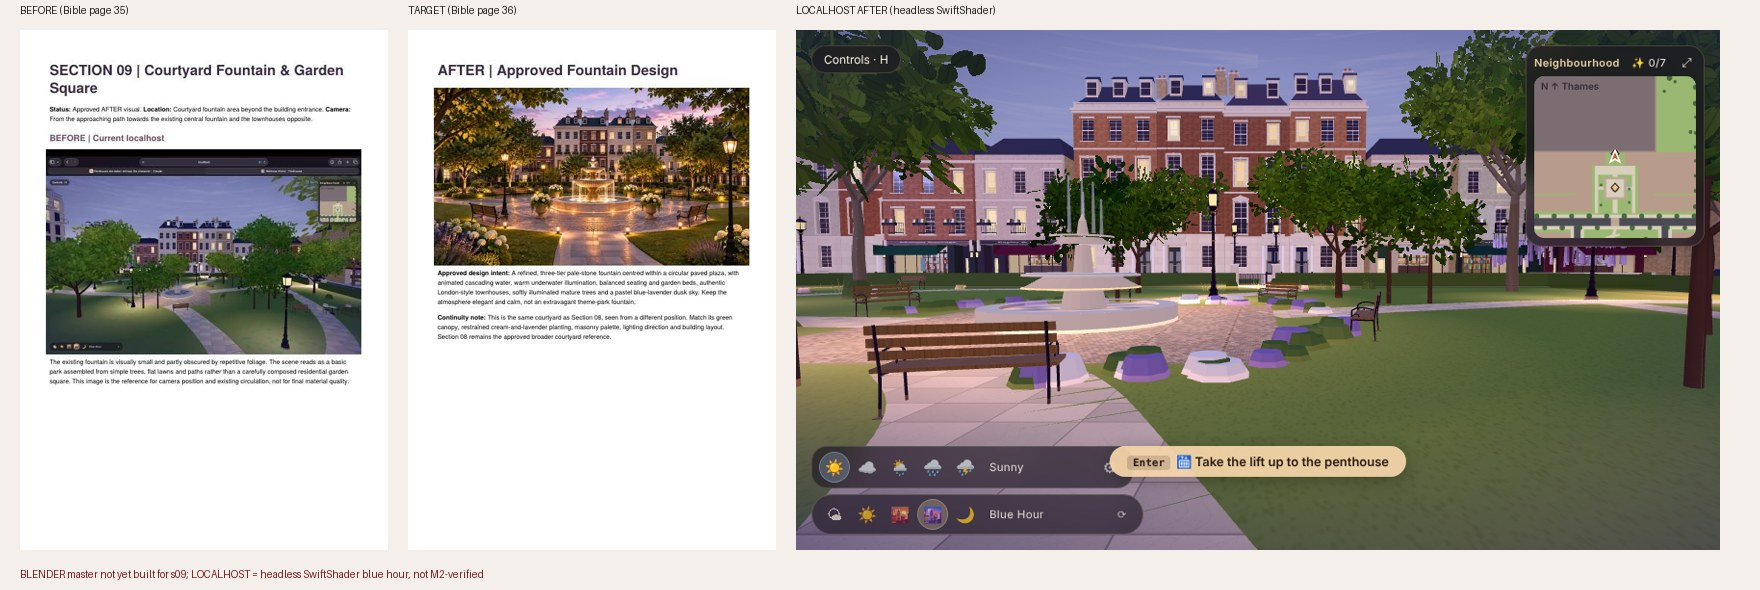
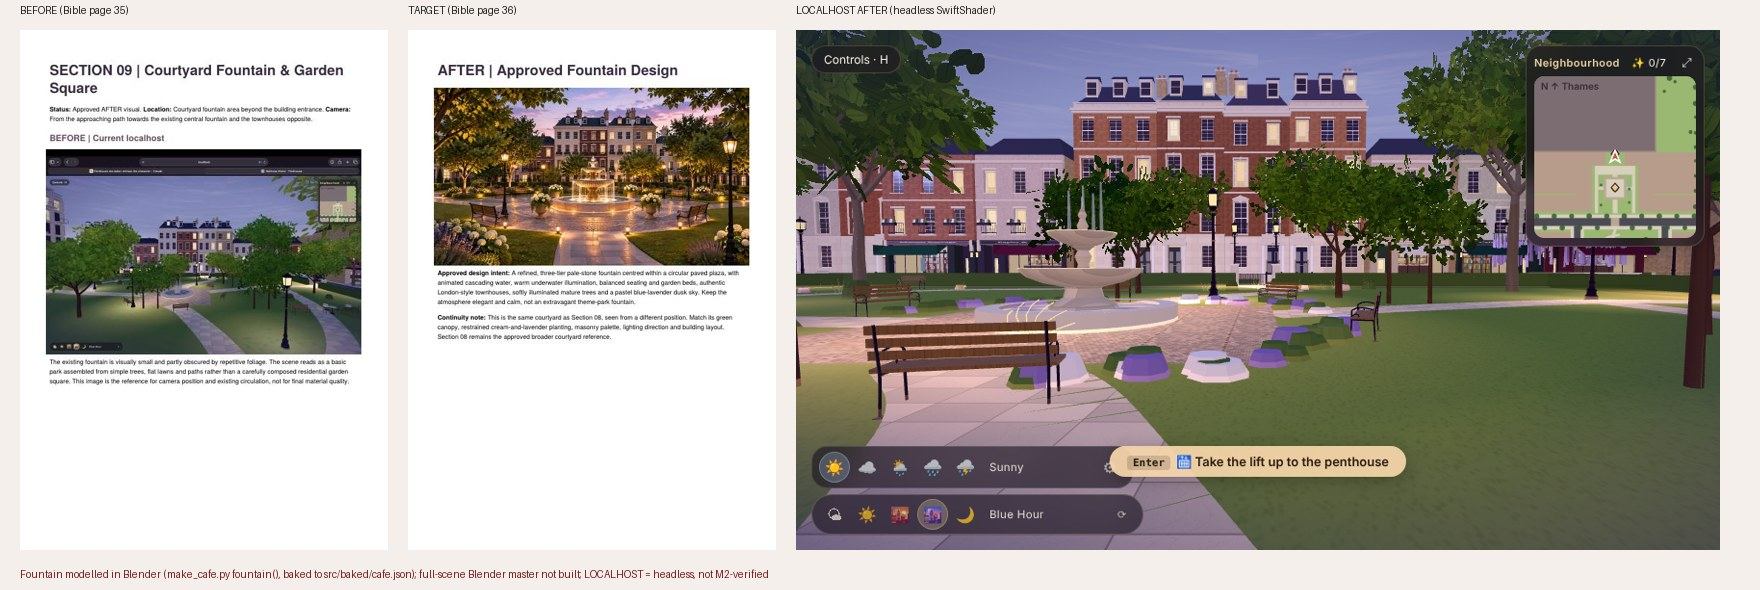
s09: Blender fountain evidence
Claude-Session: https://claude.ai/code/session_017ZtboRbFUCo4FCo9fUW3pH

diff --git a/docs/bible/S08_S09_STATUS.md b/docs/bible/S08_S09_STATUS.md
@@ -2,5 +2,5 @@
 Evidence: `evidence/s08_courtyard.jpg`, `evidence/s09_fountain.jpg` (blue hour, headless; not M2-verified; not claimed approved).
 - Both now shot at the Bible's blue-hour atmosphere (previous sheets were afternoon).
 - s08: composition matches p.31 (tree, bollard lanterns, framing townhouses, glowing ring). Added cream/lavender planting clumps along path edges (small prisms; read as stylised mounds).
-- s09: fountain apron ringed by low green/lavender mounds; fountain still small/pale vs p.36's three-tier cascading lit fountain.
+- s09: fountain now a Blender-modelled three-tier piece (ogee bowls, baluster stems, glowing lips, jets) replacing procedural prisms; apron ringed by low green/lavender mounds.
 Open: real modelled hydrangea/lavender (Blender), wet reflective paving, uplit benches, richer window glow, bigger/more detailed fountain (Blender), Blender masters.
